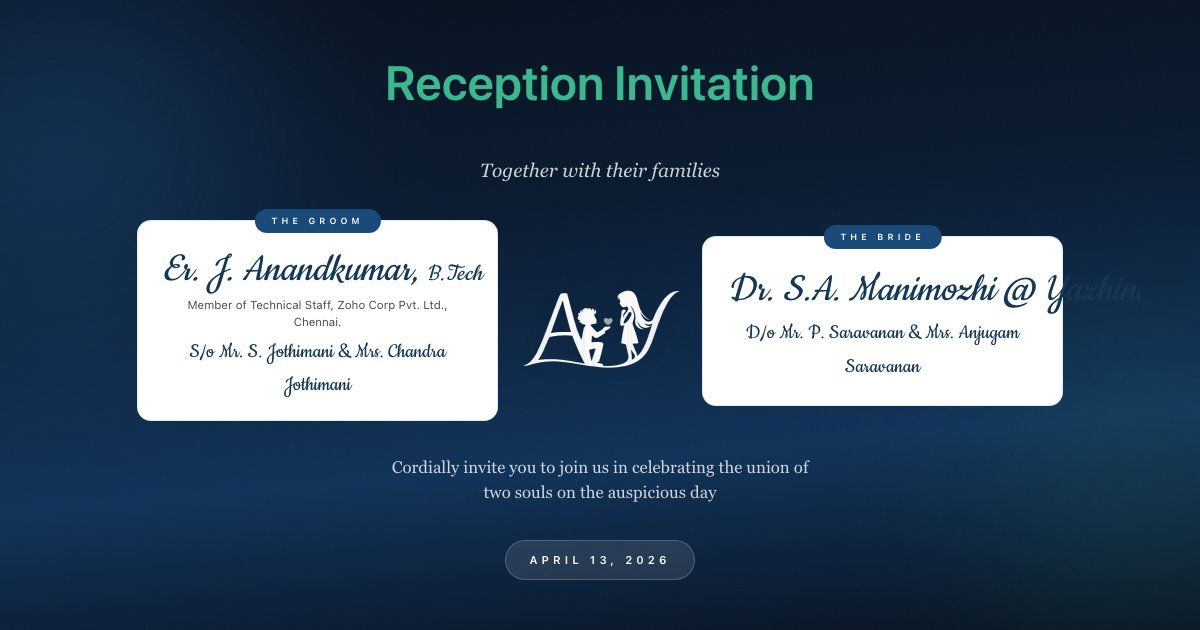
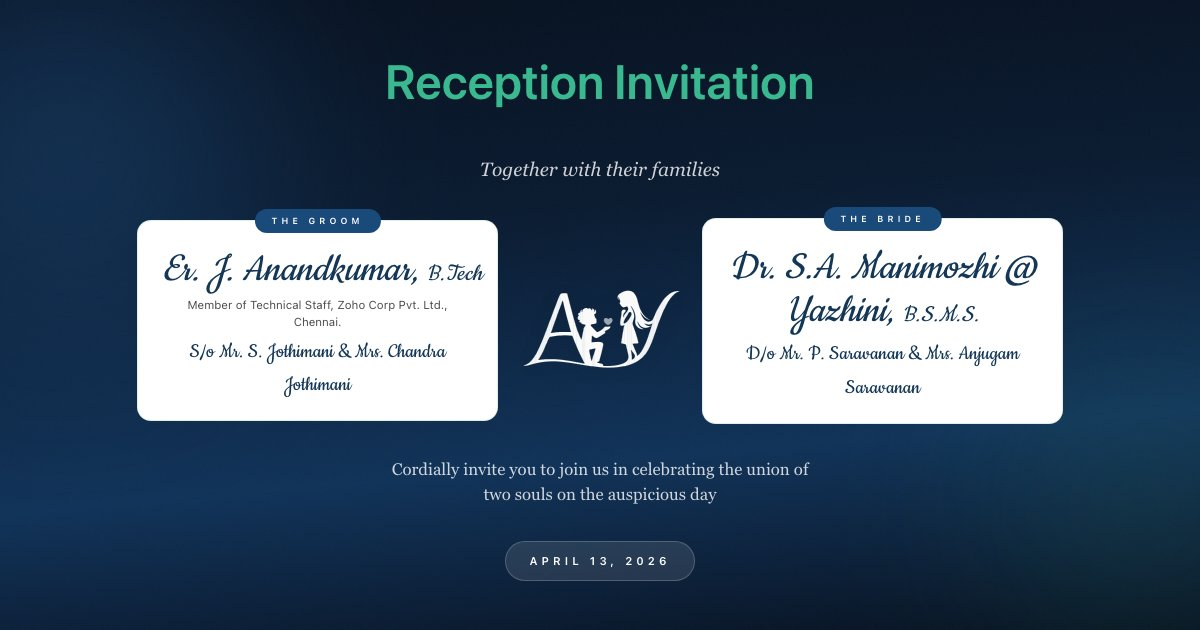
og image content updated

diff --git a/generate-og.js b/generate-og.js
@@ -112,8 +112,9 @@ const HEIGHT = 630;
         proposeImg.style.width = 'clamp(120px, 18vw, 180px)';
       }
 
-      // Prevent name + degree from wrapping
-      document.querySelectorAll('.hero-person__name').forEach(el => {
+      // Prevent groom name + degree from wrapping (bride stays natural 2-line)
+      const groomNames = document.querySelectorAll('#groomCard .hero-person__name');
+      groomNames.forEach(el => {
         el.style.whiteSpace = 'nowrap';
       });
     }, { w: WIDTH, h: HEIGHT });
